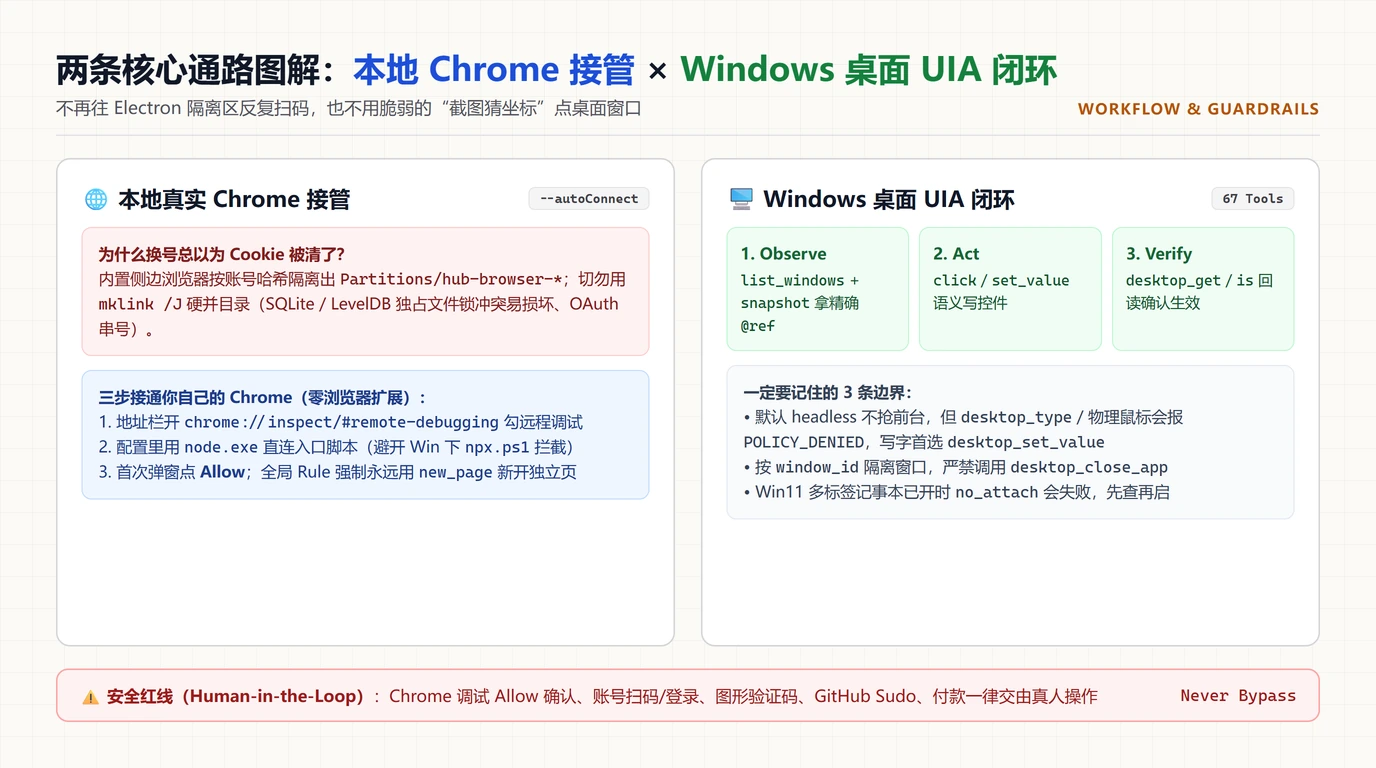
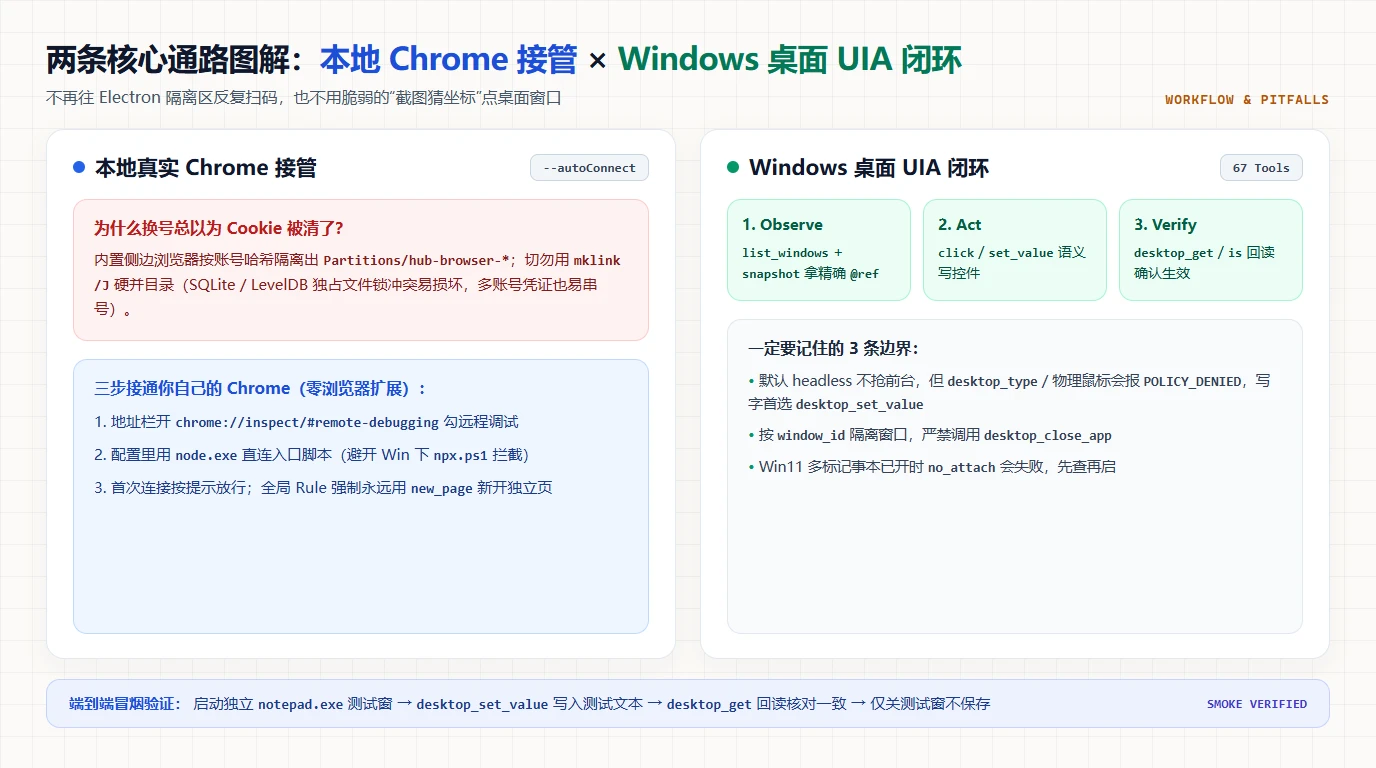
docs(posts): remove defensive security disclaimers from articles

diff --git a/src/content/posts/antigravity-slash-commands.md b/src/content/posts/antigravity-slash-commands.md
@@ -75,7 +75,7 @@ category: 工具科普
   ```text
   /goal 修复 auth 包下面所有失败的单测并确保全量测试 100% 通过
   ```
-- **核心提醒**：`/goal` 只改变“不到终点不准停”的行为，**并不会绕过你原本配置的安全权限与命令审批策略**；而且目标务必写得**具体可验证**（例如“构建零报错、测试全通过”），别写“帮我把项目优化得优雅一点”这种没法验死的虚词。
+- **核心提醒**：`/goal` 只改变“不到终点不准停”的循环控制，仍按当前命令执行策略运行；而且目标务必写得**具体可验证**（例如“构建零报错、测试全通过”），别写“帮我把项目优化得优雅一点”这种没法验死的虚词。
 
 #### 4. `/boost` —— 付费档三层多智能体深度推理
 
@@ -108,7 +108,7 @@ category: 工具科普
   ```text
   /browser 打开 http://localhost:4321/compass/ ，分别点选几个分类标签和搜索框，确认零报错后截图汇报
   ```
-- **配合诀窍**：涉及账号登录、二次验证或反爬验证码时，自己在内置浏览器里过完人机验证再放手让 `/browser` 跑繁琐重复操作。
+- **适用边界**：需要复用本地 Chrome 已有登录态时，改用本地 `chrome-devtools` MCP 会更稳；`/browser` 更适合快速跑隔离的本地预览或无状态页面检查。
 
 #### 7. `/generative_ui` —— 桌面端独占：用交互式网页替你把抽象逻辑演出来
 
@@ -143,13 +143,13 @@ category: 工具科普
 | **生命周期** | 依附于**当前对话**；关掉或不再驻留就失效（除非专门配置为独立守护态） | **完全独立持久**，配置写入 `~/.gemini/config/sidecars/<id>/sidecar.json` |
 | **触发方式** | 支持**一次性倒计时**（如“今天 10:56 / 15 分钟后”）也支持 Cron | 严格 **Cron 定时循环**，自动携带 `CRON_TZ=<IANA 时区>` |
 | **执行上下文** | 直接**唤醒原对话继续接着干**，完整继承前面聊过的所有上下文和工作状态 | 每次触发都**新开一条干净会话**（`agentapi new-conversation`）跑预设的独立 Prompt |
-| **典型场景** | “半小时后查一下发版流水线过了没”、“明早 11 点把我写完的草稿发出去” | “每个工作日早 9 点汇总未读 PR 并生成日报”、“每周一巡检依赖安全更新” |
+| **典型场景** | “半小时后查一下发版流水线过了没”、“明早 11 点把我写完的草稿发出去” | “每个工作日早 9 点汇总未读 PR 并生成日报”、“每周一巡检依赖版本更新” |
 
 - **`/schedule` 实战写法**：
   ```text
   /schedule 20分钟后 检查 GitHub Actions 部署结果，如果通过就把页面截个图给我看
   ```
-- **`/automation` 实战提示**：敲完 `/automation`，Agent 会像填表向导一样一步步向你确认执行频率（每小时/每天/每周）、具体时间点和独立任务指令，并在 **Automations 面板** 里留给你总开关与最小权限配置，**不会越权擅自替你打开开机自启**。
+- **`/automation` 实战提示**：敲完 `/automation`，Agent 会像填表向导一样一步步向你确认执行频率（每小时/每天/每周）、具体时间点和独立任务指令，并统一收口到 **Automations 面板** 里供你随时启停与管理。
 
 ---
 
@@ -194,7 +194,7 @@ category: 工具科普
 
 - **Skills（技能包）**：放进项目 `.agents/skills/<name>/SKILL.md` 或全局插件里的 Skill，只要具备明确触发场景说明，就能以 `/skill-name` 形式直呼或被自动加载。
 - **Plugins（插件捆绑）**：安装插件后，插件自带的所有对外暴露的 Skill 或命令入口会自动进入你的可用命令列表。
-- **旧版 Workflows 迁移提示**：以前 Antigravity IDE 曾有 `.agents/workflows/*.md` 机制（直接靠 `/workflow-name` 跑多步宏脚本）。官方已公告旧版 Workflows 将于 **2026 年 10 月 19 日停止支持** 并全面转向 **Agent Skills** 体系——如果你仓库里还留着老的 workflow 文件，在框里直接敲 **`/migrate-workflows`**，内置向导会一键扫描并帮它们安全迁移成现代标准 Skills！
+- **旧版 Workflows 迁移提示**：以前 Antigravity IDE 曾有 `.agents/workflows/*.md` 机制（直接靠 `/workflow-name` 跑多步宏脚本）。官方已公告旧版 Workflows 将于 **2026 年 10 月 19 日停止支持** 并全面转向 **Agent Skills** 体系——如果你仓库里还留着老的 workflow 文件，在框里直接敲 **`/migrate-workflows`**，内置向导会一键扫描并帮它们平滑迁移成现代标准 Skills！
 
 ---
 
@@ -220,10 +220,8 @@ category: 工具科普
 1. **按 `/` 没反应，或者只想真的发一条以 `/` 开头的文本怎么办？**
    在输入文本时，只要开头不是直接键入触发菜单并选中命令，或者在 CLI 无头模式（`agy -p`）下配置 `--disable-slash-commands`（对应设置 `disableSlashCommands: true`），就可以强制把带 `/` 的话原封不动当普通文本传给模型。
 2. **`/generative_ui` 和 `/browser` 为什么有时在某些端找不到？**
-   因为端能力边界不同：`/generative_ui` 依赖图形界面渲染交互 HTML，**只在 Antigravity App（桌面端/Web）可用**；`/browser` 沙盒浏览器在 App 与 CLI 均可使用，但在 **Antigravity IDE 插件版内不可用**（且企业版管理员可能统一关闭浏览器权限）。
-3. **用了 `/goal` 或 `/boost` 会跳过我的危险操作确认弹窗吗？**
-   **不会。** 它们改变的是规划链路、并发验证方式和早退拦截策略，你的文件访问边界、沙盒模式、终端命令白名单 / 审批策略依然原封不动严格生效。
-4. **`/plan` 和 `/grill-me` 每次都要两个一起开吗？**
+   因为端能力边界不同：`/generative_ui` 依赖图形界面渲染交互 HTML，**只在 Antigravity App（桌面端/Web）可用**；`/browser` 沙盒浏览器在 App 与 CLI 均可使用，但在 **Antigravity IDE 插件版内不可用**。
+3. **`/plan` 和 `/grill-me` 每次都要两个一起开吗？**
    不是必须：需求已经很清澈但改造面广，直接 `/plan` 就行；想法还很毛坯拿不准产品/技术口径，先开 `/grill-me`；遇到又复杂又模糊的硬活，把 **`/plan /grill-me`** 连写在一起才是完全体。
 
 ---

diff --git a/src/content/posts/antigravity-full-computer-control.md b/src/content/posts/antigravity-full-computer-control.md
@@ -50,7 +50,7 @@ category: 工程实战
 
 为什么 Codex CLI 和 Claude Code 用起来像“真在你终端里驻场的工程师”？核心原因不是模型多神秘，而是**工作区边界和命令执行权放得开**——能读用户目录里的配置、能跨仓库协同、能直接跑构建和系统命令。
 
-Google Antigravity 桌面端默认把安全阀门拧得很紧（命令需要 `request-review` 审批、开启 Terminal Sandbox、拦截工作区外文件访问），新手试用期很安全，但做全流程自动化时处处掣肘。
+Google Antigravity 桌面端默认开启了较严格的执行限制（命令需要 `request-review` 审批、开启 Terminal Sandbox、拦截工作区外文件访问），做全流程自动化时处处掣肘。
 
 ### 1. 怎么在 `~/.gemini/config/config.json` 打开生产力？
 
@@ -74,11 +74,6 @@ Google Antigravity 桌面端默认把安全阀门拧得很紧（命令需要 `re
 - **`enableTerminalSandbox: false`**：关闭终端沙盒限制，命令行工具才能真正触达本地真实环境（如读全局配置、调用本机已装浏览器与编译器）。
 - **`nonWorkspaceFileAccessPolicy: "AGENT_SETTING_POLICY_ALLOW"`**：允许 Agent 跨出当前打开的单一工程目录，直接读取并维护位于 `%USERPROFILE%` 下的配置、跨仓源码或桌面素材目录。
 
-:::warning[放权不等于“裸奔”：必须守住的安全红线]
-哪怕开到了 Turbo 档，也要守住两条硬边界：
-1. **认证、验证码、支付与高危破坏动作绝不绕过**：Chrome 远程调试首次放行弹窗、GitHub 删仓 Sudo 授权、网站图形验证码、登录扫码、付款页，一律停下来让真人操作。
-2. **禁止探测或破坏宿主沙盒与鉴权状态**：工具能跑全盘命令，是用来做正经工程与自动化协作，不是去修改权限检查状态或绕开登录态校验。
-:::
 
 ---
 
@@ -98,7 +93,7 @@ Google Antigravity 桌面端默认把安全阀门拧得很紧（命令需要 `re
 :::tip[千万别用 Windows `mklink /J` 硬并分区目录！]
 网上偶尔有人图省事，想用符号链接把几个 `hub-browser-*` 文件夹强行指向同一个物理路径——**非常不建议这么做**：
 1. Chromium 内核对分区的 `Cookies`（SQLite）和 `Local Storage`（LevelDB）持有独占文件锁，应用内不彻底杀进程直接切号时，两个会话同时读写同一份数据库极易锁死或损坏；
-2. 会打破官方的账号隔离边界，容易引起 Google OAuth 鉴权串号或异常退出。
+2. 多账号共享同一份本地凭证缓存容易导致登录态串号或异常掉线。
 :::
 
 既然官方侧边浏览器按账号隔离，正确的破局思路其实特别简单：**干脆让全账号共享的全局 MCP，直接接管你平时自己用的本地 Google Chrome！** 账号再怎么切，你桌面上那个 Chrome 里的 Cookie 永远稳如磐石。
@@ -149,9 +144,8 @@ npm install -g chrome-devtools-mcp
 
 因此在 `~/.gemini/config/plugins/local-chrome-ops/` 下建一个极轻的纯规则插件（只需 `plugin.json` + `rules/AGENTS.md`）：
 
-- **优先路由**：遇到需要打开、交互、且依赖持久化登录态的网页任务，优先走 `chrome-devtools` MCP 而不是内置隔离侧边浏览器（除非用户显式点名 `/browser`）。
-- **护住用户当前标签页**：动手前**必须先调 `list_pages`** 查看现存标签；**一律用 `new_page` 单独新建自己的工作标签页**，严禁在用户正在阅读的原有标签页上跳转，也严禁读取或关闭无关个人标签页。
-- **不越界**：碰到 Chrome 的 `Allow remote debugging` 弹窗、登录框、图形验证码、支付页，直接停下来让用户在本地 Chrome 里亲自点，绝不用桌面工具代点“Allow”。
+- **优先路由**：遇到需要打开、交互、且依赖持久化登录态的网页任务，优先走 `chrome-devtools` MCP 而不是内置隔离侧边浏览器（除非显式指定 `/browser`）。
+- **护住当前标签页**：动手前**先调 `list_pages`** 查看现存标签；**一律用 `new_page` 新建独立的工作标签页**，不在正在阅读的原标签页上直接跳转，也不操作无关标签页。
 
 > **顺手小优化**：在 Antigravity `Settings > General > Open Links In` 里也可以顺手选成 **External Browser**，这样平时你自己手点对话里的超链接，也会直接进本地 Chrome，内外无缝打通。
 
@@ -217,7 +211,7 @@ npm install -g chrome-devtools-mcp
 
 把 **底层权限 + 本地 Chrome + 本地桌面控制** 全部接进全局配置之后，反重力才算真正摆脱了“只会在单个文件夹里写代码的聊天框”定位——平时你用多个账号轮换保额度时，**MCP 工具池和你的 Chrome 登录态、桌面规则全都在背后稳稳待命**：
 
-- **写完直接全网发稿**：本地生成文章和图卡 → `git push` 推送部署 → 直接驱动本地已经登录好的 Chrome 多标签页逐个平台完成图文排版、线上图片尺寸校验与发布（遇到登录过期或人机验证自动停住让你手动过）。
+- **写完直接全网发稿**：本地生成文章和图卡 → `git push` 推送部署 → 直接驱动本地已经登录好的 Chrome 多标签页逐个平台完成图文排版、线上图片尺寸校验与发布。
 - **真·桌面级全栈联调**：像开发嵌入式或传统工程项目时，Agent 改完代码 → 命令行编译构建 → 用 `local-desktop` 直接操作 **Keil** 等桌面软件运行验证 → 截图回传分析结果，端到端一气呵成。
 - **日常电脑巡检与收尾**：读剪贴板、查系统通知、自动给测试窗做端到端冒烟，全程记录精简，不再动不动就贴一长串操作教程甩锅给人类自己去点。
 

diff --git a/src/content/posts/antigravity-guide-tips.md b/src/content/posts/antigravity-guide-tips.md
@@ -75,12 +75,12 @@ category: 工具科普
 - **日常业务开发、写接口、修常见 Bug**：主力使用 **`Gemini 4 Argon`**（`Medium` / `High`）。
 - **复杂架构改造、疑难竞态排查、全仓库审校**：切到 **`Gemini 4 Neon`（`High` / `XHigh`）** 或直接使用 **`Orchestrator`** 模式让其自己做高配规划 + 快模执行。
 
-### 4. 内置浏览器的正确协作姿势：人过门禁，AI 干粗活
+### 4. 内置浏览器的实战用法
 
 当你需要用反重力帮你验收本地页面或处理繁琐网页后台时：
 
 - **本地开发验收直接交页面 URL**：起好本地 dev server 后，直接让它打开对应 `localhost` 端口截屏查布局、响应式断点、网络请求状态码（`404`/`500`）和浏览器 Console Error。
-- **遇登录/验证码/扫码时「接力合作」**：反重力严守安全边界，**不会绕过验证码（CAPTCHA）、短信验证、扫码或代付**。正确配合方式是：让浏览器子代理打开登录页停下来 → 你在侧边浏览器手动扫码/滑过验证 → 回一句“好了”，子代理会直接在**同一个标签页**里保留登录态继续帮你批量填表、发文或整理列表，既安全又省心。
+- **保留同一个标签页做繁琐批量整理**：对于你自己的列表整理、书签归档或表单批量更新，让浏览器子代理直接复用当前会话的同一个标签页连续操作即可，省去重复手动点击。
 
 ### 5. Antigravity IDE 编辑器内的四个高频快捷键
 
@@ -184,25 +184,7 @@ category: 工具科普
 - **Plugins（`.agents/plugins/<name>/plugin.json`）—— 成套打包与迁移**  
   如果你同时积累了一套配套的 Rules + Skills + Hooks + `mcp_config.json`，打包成 Plugin 就可以在 `config.json` 里通过 `"plugins": { "my-plugin": { "enabled": false } }` 一键整体开关。（注意：原生 Plugin 的 `hooks.json` 必须直接放在插件根目录，而不是二级 `hooks/` 子目录。）如果你原本在 Claude Code、Cursor、Codex 或 Gemini CLI 里攒了整套规则和 MCP 配置，也可以直接在反重力里让内置迁移技能自动帮你整合成插件。
 
-### 3. 权限与安全调优：全局从严 + 单项目放行
-
-很多开发者用着觉得“要么太啰嗦老弹窗确认，要么全开 `always-proceed` 又心里发虚”。反重力的正解是利用 **Project-Level Settings 覆盖全局**：
-
-:::steps[一套兼顾安全与流畅度的权限配法]
-1. **全局保持安全基线**
-
-   在 Global Settings 里把默认工具执行策略保留在 `request-review` 或 `proceed-in-sandbox`，同时启用 **Terminal Sandbox**，限制全局非工作区文件写权限。
-
-2. **对你信任的常用仓库单独放行**
-
-   在左侧切换进你的高频个人项目后，打开 **Project-Level Settings**，只针对当前仓库覆写 `Auto-Execution Policy`、联网策略与工作区权限。
-
-3. **维护常用命令白名单 / 高危黑名单**
-
-   把只读查询、单元测试、打包构建命令加入 **Command Allowlist**，把危险删库或不可逆推送指令放进 **Denylist**；如涉及内网调试或防越权抓取，可顺便配置 **Browser Allowlist** 限定允许访问的域名范围。
-:::
-
-### 4. Antigravity CLI（`agy`）与跨工具无头并发工作流
+### 3. Antigravity CLI（`agy`）与跨工具无头并发工作流
 
 如果你已经习惯终端操作，或者重度依赖其他编程工具想借用反重力的高性价比模型池，`agy` CLI（本机已验证 `1.5.14`）非常值得一用：
 
@@ -224,7 +206,7 @@ category: 工具科普
 
 ::github{repo="Sereneoned/codex-agy-subagents"}
 
-### 5. Python SDK 与官方 `.md` 文档秒查技巧
+### 4. Python SDK 与官方 `.md` 文档秒查技巧
 
 :::details[点开查看：Python SDK 最小启动模板 & 官方 `.md` 文档直查索引]
 - **Python SDK（`google-antigravity`）**：通过 `pip install google-antigravity` 安装，可在 CI、评测脚本或自动化工具中通过异步上下文管理器拉起本地 Agent，并实时消费思考链与工具调用事件：
@@ -234,7 +216,7 @@ category: 工具科普
   from google.antigravity import Agent, LocalAgentConfig, CapabilitiesConfig
 
   async def main():
-      # 默认以安全只读模式运行；需要写文件或执行命令时显式传入 CapabilitiesConfig()
+      # 默认以只读模式运行；需要写文件或执行命令时显式传入 CapabilitiesConfig()
       config = LocalAgentConfig(
           system_instructions="You are a concise code review assistant.",
           capabilities=CapabilitiesConfig(),

diff --git a/src/content/posts/antigravity-conversation-forker.md b/src/content/posts/antigravity-conversation-forker.md
@@ -117,10 +117,10 @@ Antigravity Desktop App（宿主）
 
 当生成出来的 `full` 记忆正文超过 **24,000 字符** 时，为了防止首轮提示词臃肿拖垮响应速度，`build_fork_payload` 会自动切换到 **目录索引 + 近期完整轮次 + 文件落盘交接** 模式：先在首条消息里给出全轮次索引和改动文件汇总，再引导新对话优先调用 `read_file` 读取已保存到 `${PLUGIN_DATA}/forks/<fork_id>.md` 的无损完整快照文件，真正兼顾首轮轻量与零信息丢失。
 
-### 3. 零运行时依赖与 CSP 沙箱合规
+### 3. 零运行时依赖与单文件内联打包
 
-- **终端用户无需安装 Node.js**：仓库中已经内置前端源码预编译产物 `ui/dist/app.html`，所有 TypeScript 与 CSS 全部内联进单个 HTML 资源，**不请求任何外部 `http(s)://` 脚本、样式或字体**，完整契合 MCP Apps 的 `default-src 'none'` 内容安全策略；后端完全使用 **Python 3.10+ 标准库** 构建 MCP stdio 服务。
-- **不依赖浏览器存储**：面板全程不读写 `localStorage`、`IndexedDB` 或 Cookie，所有分叉快照与 `index.json` 谱系状态均由服务端工具经过严格 `fork_id` 正则校验（`^[a-zA-Z0-9_-]{4,64}$`）后落盘到插件数据目录。
+- **终端用户无需安装 Node.js**：仓库中已经内置前端源码预编译产物 `ui/dist/app.html`，所有 TypeScript 与 CSS 全部内联进单个 HTML 资源，不请求任何外部 `http(s)://` 脚本、样式或字体；后端完全使用 **Python 3.10+ 标准库** 构建 MCP stdio 服务。
+- **独立插件数据目录落盘**：面板不依赖 `localStorage`、`IndexedDB` 或 Cookie，所有分叉快照与 `index.json` 谱系状态直接持久化在插件数据目录 `${PLUGIN_DATA}/forks/` 下，跨会话视图打开也完全同步。
 
 ---
 
@@ -166,7 +166,7 @@ python -m unittest discover -s tests -v
 ```
 :::
 
-:::details[高频避坑 FAQ（全局入口差异 / CLI 支持 / 原会话安全性 / 卸载方式）]
+:::details[高频避坑 FAQ（全局入口差异 / CLI 支持 / 原会话只读 / 卸载方式）]
 1. **为什么从最左侧全局导航入口打开时，按钮变成「生成并复制分叉提示词」而不是直接建新对话？**
    - 这是 Antigravity 宿主的视图边界决定的：全局左侧入口不归属于任何具体项目对话，宿主不会提供 `ui/message`（`target: "new"`）权限。在**具体项目的某条对话内部**点击右上角 **Side Pane `+`** 打开插件，就会自动开启一键同项目建新对话能力；而全局入口的「复制分叉提示词」模式则非常适合跨项目搬运或更换账号后手动粘贴。
 2. **能读取终端 `agy` CLI 跑出来的对话吗？**

diff --git a/src/content/posts/codex-agy-subagents.md b/src/content/posts/codex-agy-subagents.md
@@ -127,8 +127,8 @@ flowchart TD
 4. **“入队容量”和“真实并发”必须解耦**：允许 Codex 在同一轮一次扇出最多 `AGY_MAX_QUEUE=32` 个子任务，但调度线程会严格把底层的活跃 `agy` 进程上限卡在 `AGY_MAX_CONCURRENT=5`（支持 `1~16`），相邻启动强制插入 `AGY_STAGGER_SEC=1.5` 秒错峰抖动；万一遇到 429 或 auth 错误，按 `15s` 基数指数退避（上限 `180s`），绝不无脑死循环重试。
 :::
 
-:::note[关于安全边界与使用习惯的一条提醒]
-本项目 **100% 通过官方 `agy` CLI 正常无头参数**（`agy -p --output-format stream-json --disable-slash-commands ...`）工作，不抓包、不读取也不转发任何 OAuth Token，没有任何绕过风控或刷号逻辑。如果你同时使用多号切换工具管理 Antigravity 账号，建议**不要在 Codex 后台仍有并发 `agy` 子代理执行时中途切号**，以免覆盖本地共享凭证导致正在进行的会话鉴权中断或 `--conversation` 续聊失效。
+:::tip[多账号切换注意]
+如果你使用多号工具管理 Antigravity 账号，注意**不要在后台仍有并发 `agy` 子代理执行时中途切号**，以免覆盖本地共享凭证导致正在运行的 `--conversation` 续聊中断。
 :::
 
 ---
